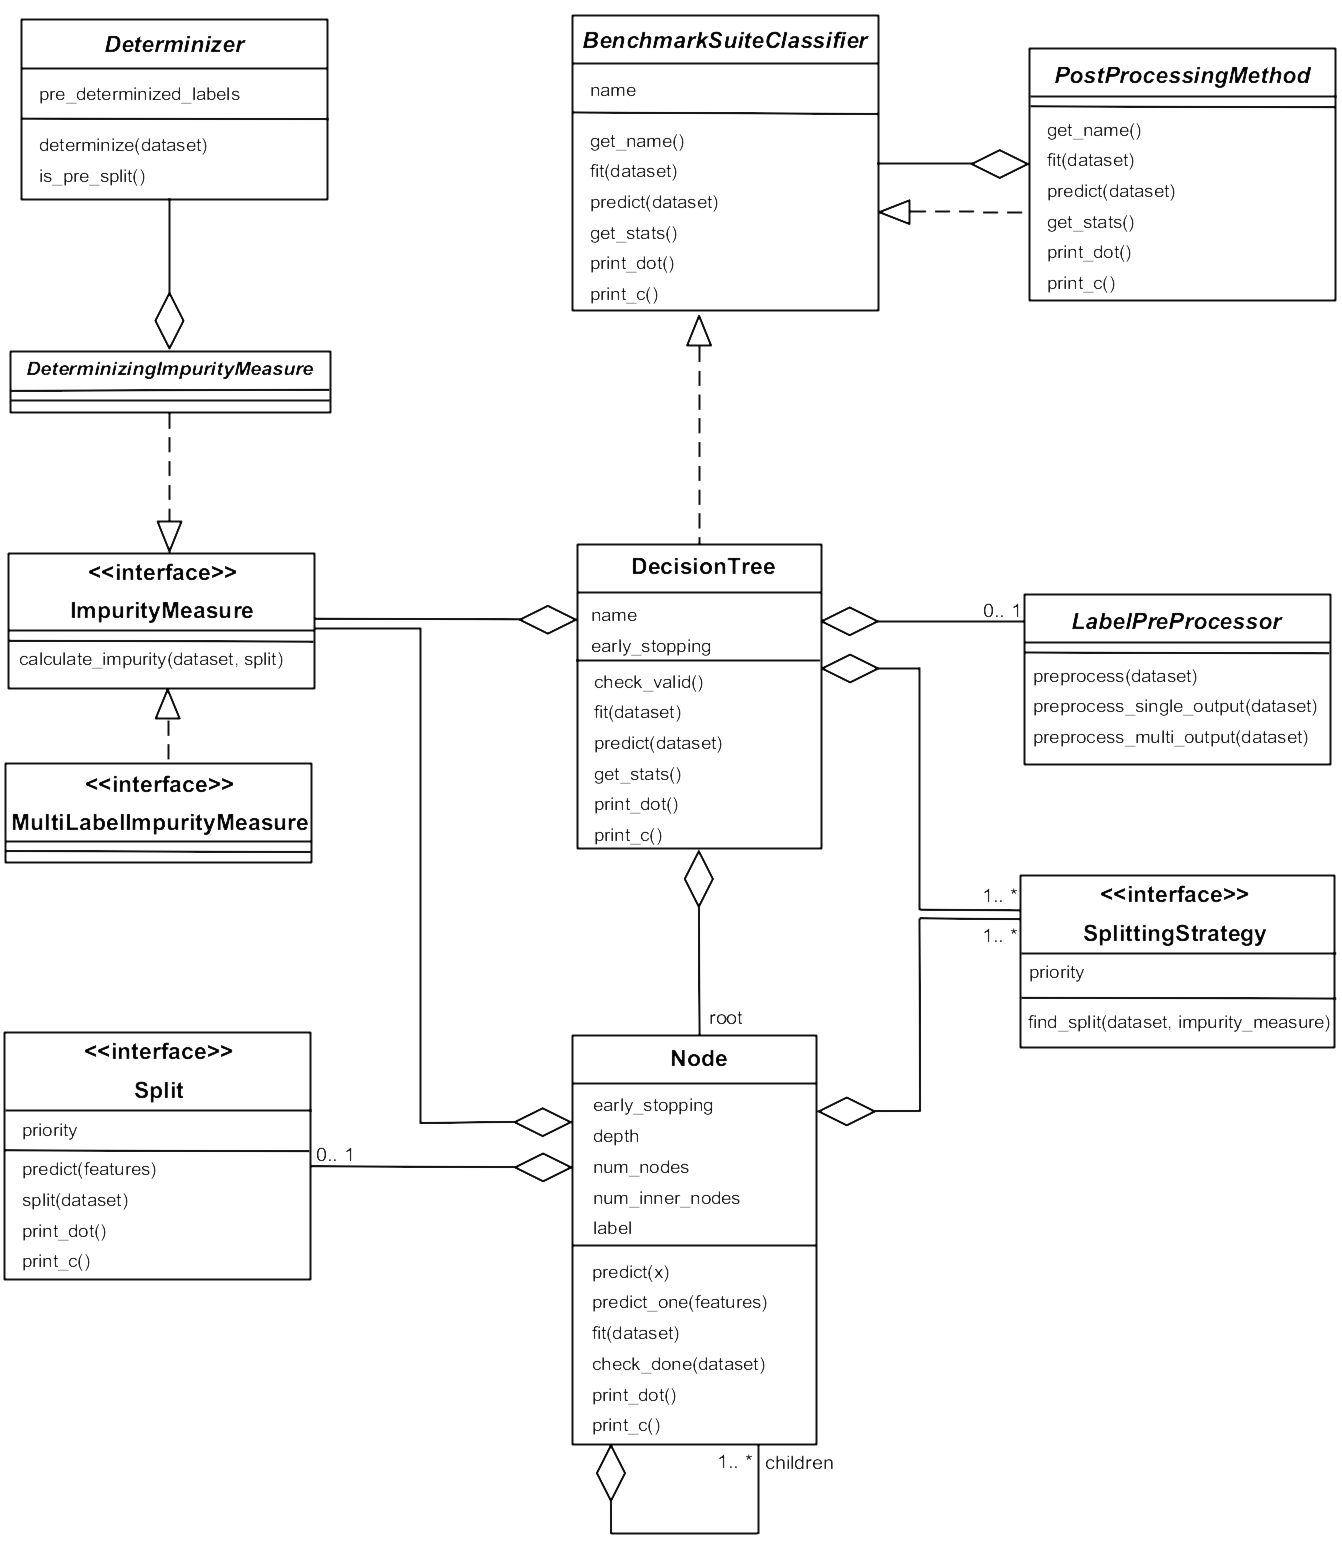
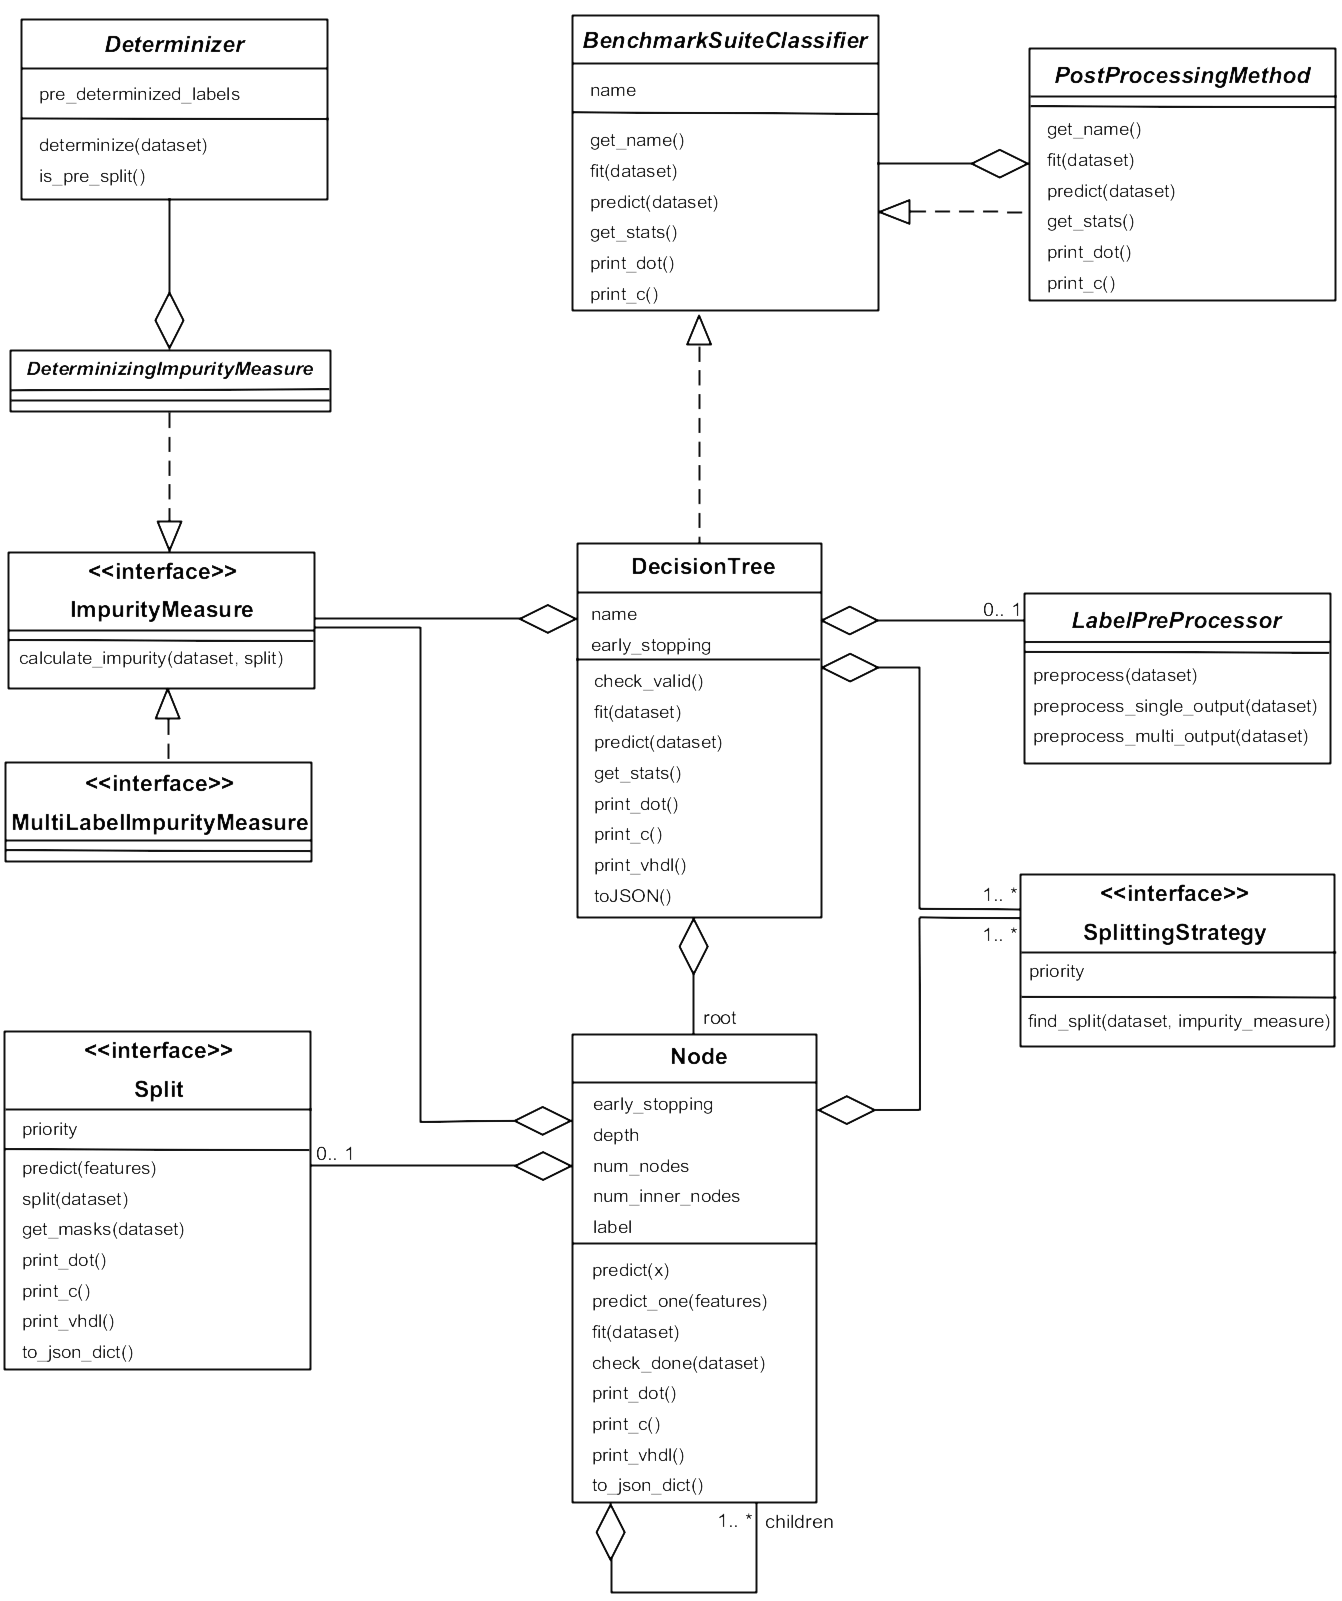
updated some new methods

diff --git a/docs/source/devman.rst b/docs/source/devman.rst
@@ -142,7 +142,13 @@ We now examine the most important interfaces in detail.
 Splitting strategies
 ^^^^^^^^^^^^^^^^^^^^
 
-A ``SplittingStrategy`` provides the method ``find_split(dataset, impurity_measure)``, which returns the best predicate of a certain type, given a dataset and an impurity measure. For instance, the ``AxisAlignedSplittingStrategy`` searches through all possible axis-aligned splits for the given dataset and returns the one with lowest impurity.
+A ``SplittingStrategy`` provides the method ``find_split(dataset, impurity_measure)``, which returns the best predicate of a certain type, given a dataset and an impurity measure. For instance, the ``AxisAlignedSplittingStrategy`` searches through all possible axis-aligned splits for the given dataset and returns the one with lowest impurity. Additionally, if several different splitting strategies are in use, the user can assign an individual priority to the strategies. The priority is later taken into account when calculating the impurity of the predicate :math:`p_i`. The new impurity (with priority in :math:`(0,1]`) is calculated as the following:
+
+.. math::
+        \text{Impurity}_\text{new}(p_i) = \displaystyle\frac{\text{Impurity}(p_i)}{\text{Priority}}
+
+.. note::
+        The default value of ``priority`` is 1. By assigning the exclusive priority of 0, the user can specify a ``FallbackStrategy``, a strategy which should only be used if all other strategies fail.
 
 The returned predicate is of type ``Split`` and must provide the following methods:
 
@@ -153,6 +159,10 @@ The returned predicate is of type ``Split`` and must provide the following metho
 - ``print_dot()`` returns the string that should be put in the node in the DOT format.
 
 - ``print_c()`` returns the string that should be put in the corresponding if-statement in the C code.
+
+- ``print_vhdl()`` returns the string that corresponds to vhdl code.
+
+- ``to_json_dict()`` converts the ``Split`` object to a ``JSON`` dictionary.
 
 The simplest example of a ``Split`` is probably the ``AxisAlignedSplit``.
 
